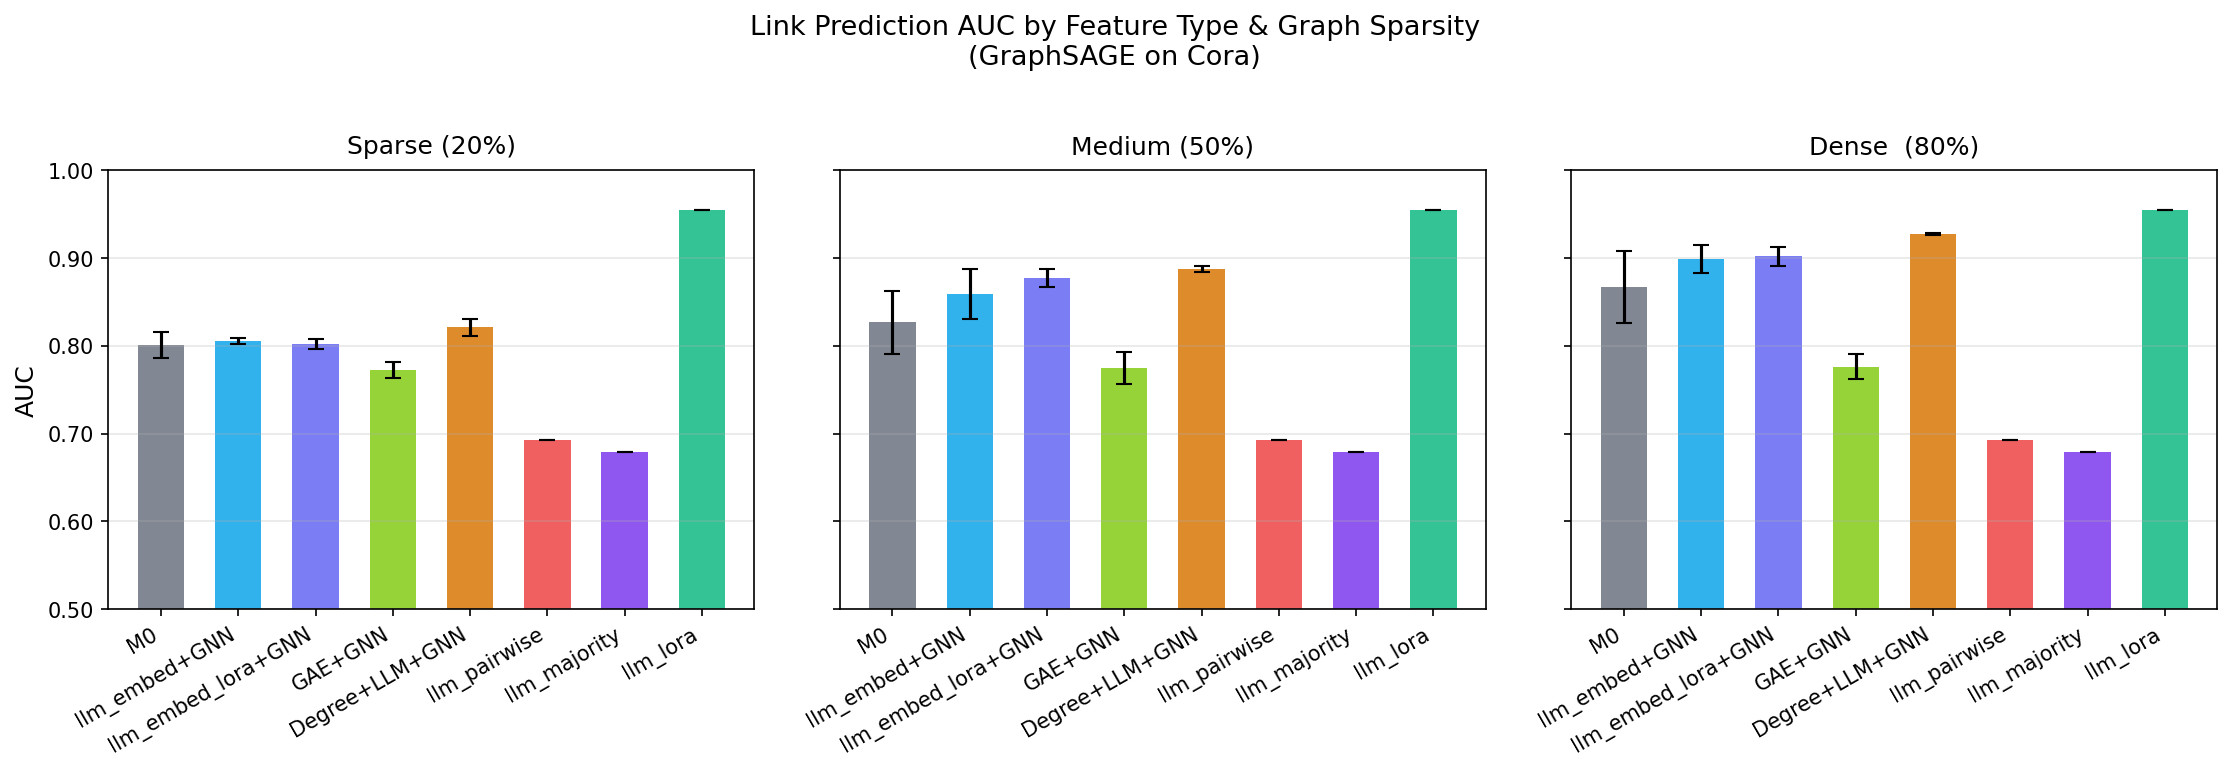
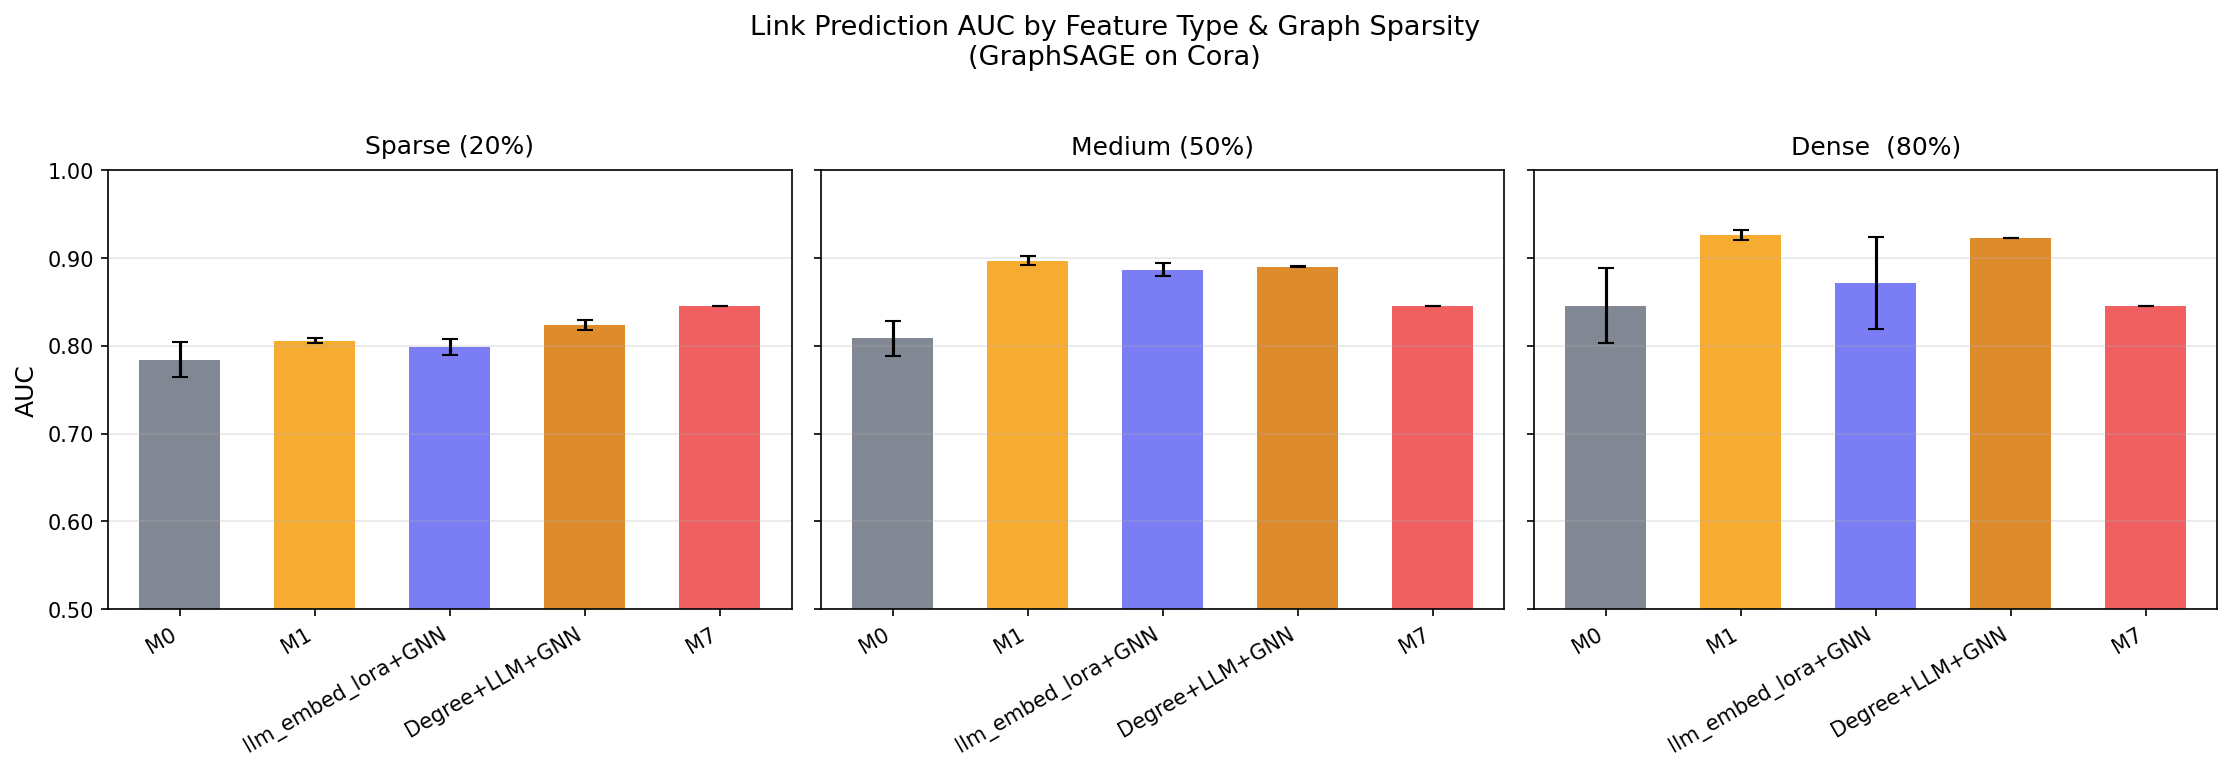
final comparsion

diff --git a/plot_sparsity.py b/plot_sparsity.py
@@ -1,0 +1,83 @@
+"""
+從 results/comparison_table.csv 讀取現有結果，畫出 sparsity.png。
+"""
+
+import numpy as np
+import matplotlib.pyplot as plt
+import matplotlib.ticker as mticker
+
+DATA = {
+    "M0: Degree Stats": {
+        "Sparse (20%)":  (0.7844, 0.0199),
+        "Medium (50%)":  (0.8088, 0.0201),
+        "Dense  (80%)":  (0.8456, 0.0428),
+    },
+    "M1: TF-IDF": {
+        "Sparse (20%)":  (0.8056, 0.0029),
+        "Medium (50%)":  (0.8972, 0.0049),
+        "Dense  (80%)":  (0.9263, 0.0061),
+    },
+    "M11: LLM-LoRA+GNN": {
+        "Sparse (20%)":  (0.7991, 0.0092),
+        "Medium (50%)":  (0.8870, 0.0077),
+        "Dense  (80%)":  (0.8721, 0.0523),
+    },
+    "Degree+LLM+GNN": {
+        "Sparse (20%)":  (0.8236, 0.0056),
+        "Medium (50%)":  (0.8905, 0.0005),
+        "Dense  (80%)":  (0.9231, 0.0004),
+    },
+    "M7: LLM Pairwise (70b)": {
+        "Sparse (20%)":  (0.8456, 0.0000),
+        "Medium (50%)":  (0.8456, 0.0000),
+        "Dense  (80%)":  (0.8456, 0.0000),
+    },
+}
+
+COLORS = {
+    "M0: Degree Stats":       "#6B7280",
+    "M1: TF-IDF":             "#F59E0B",
+    "M11: LLM-LoRA+GNN":      "#6366F1",
+    "Degree+LLM+GNN":         "#D97706",
+    "M7: LLM Pairwise (70b)": "#EF4444",
+}
+
+SPARSITY_LABELS = ["Sparse (20%)", "Medium (50%)", "Dense  (80%)"]
+METHODS = list(DATA.keys())
+
+n_sparse = len(SPARSITY_LABELS)
+n_method = len(METHODS)
+x        = np.arange(n_sparse)
+width    = 0.15
+offsets  = np.linspace(-(n_method - 1) / 2, (n_method - 1) / 2, n_method) * width
+
+fig, ax = plt.subplots(figsize=(10, 5))
+
+for i, method in enumerate(METHODS):
+    means = [DATA[method][sp][0] for sp in SPARSITY_LABELS]
+    stds  = [DATA[method][sp][1] for sp in SPARSITY_LABELS]
+    bars  = ax.bar(
+        x + offsets[i], means, width,
+        yerr=stds, capsize=4,
+        color=COLORS[method], alpha=0.88,
+        label=method,
+        error_kw={"elinewidth": 1.2, "ecolor": "#333"},
+    )
+
+ax.set_ylabel("AUC-ROC", fontsize=12)
+ax.set_title(
+    "Link Prediction AUC by Feature Type & Graph Sparsity\n(GraphSAGE on ogbn-arxiv subset)",
+    fontsize=13,
+)
+ax.set_xticks(x)
+ax.set_xticklabels(SPARSITY_LABELS, fontsize=11)
+ax.set_ylim(0.70, 1.00)
+ax.yaxis.set_major_formatter(mticker.FormatStrFormatter('%.2f'))
+ax.legend(fontsize=9, loc="lower right")
+ax.grid(axis="y", alpha=0.3)
+
+fig.tight_layout()
+path = "results/figures/sparsity.png"
+fig.savefig(path, dpi=150, bbox_inches="tight")
+plt.close(fig)
+print(f"圖表已存至 {path}")

diff --git a/eval/reporter.py b/eval/reporter.py
@@ -20,7 +20,7 @@ FEATURE_LABELS = {
     "llm_graph_embed":       "llm+GAE+GNN",
     "gae_embed":             "GAE+GNN",
     "degree_llm_embed":      "Degree+LLM+GNN",
-    "llm_pairwise":          "llm_pairwise",
+    "llm_pairwise":          "M7: LLM Pairwise (70b)",
     "llm_pairwise_majority": "llm_majority",
     "llm_lora":              "llm_lora",
 }
@@ -121,6 +121,7 @@ class Reporter:
         os.makedirs(out_dir, exist_ok=True)
         self._plot_bar_by_sparsity(out_dir)
         self._plot_llm_gain(out_dir)
+        self._plot_sparsity_line(out_dir)
 
     # ── 圖一：各稀疏度下的 AUC 比較 ──────────────────────────────────
     def _plot_bar_by_sparsity(self, out_dir):
@@ -162,7 +163,57 @@ class Reporter:
         plt.close(fig)
         print(f"[reporter] 圖表已存至 {path}")
 
-    # ── 圖二：LLM 特徵的邊際增益（vs TF-IDF baseline）────────────────
+    # ── 圖二：AUC vs Sparsity 線圖 ───────────────────────────────────
+    def _plot_sparsity_line(self, out_dir):
+        """各方法的 AUC 隨稀疏度變化的折線圖，M7 以虛線呈現（與稀疏度無關）。"""
+        sparsities = sorted(set(r['sparsity'] for r in self.records))
+        features   = list(dict.fromkeys(r['feature'] for r in self.records))
+
+        fig, ax = plt.subplots(figsize=(8, 5))
+
+        for feat in features:
+            aucs, stds, xs = [], [], []
+            for sp in sparsities:
+                rec = next((r for r in self.records
+                            if r['feature'] == feat and r['sparsity'] == sp), None)
+                if rec:
+                    aucs.append(rec['auc_mean'])
+                    stds.append(rec['auc_std'])
+                    xs.append(sp)
+            if not aucs:
+                continue
+            label  = FEATURE_LABELS.get(feat, feat)
+            color  = COLORS.get(feat, '#999')
+            is_m7  = feat == 'llm_pairwise'
+            ax.errorbar(
+                xs, aucs, yerr=stds,
+                marker='s' if is_m7 else 'o',
+                label=label, color=color,
+                linewidth=2, markersize=7, capsize=4,
+                linestyle='--' if is_m7 else '-',
+                alpha=0.9,
+            )
+
+        ax.set_xlabel("Training Edge Ratio (Graph Sparsity)", fontsize=12)
+        ax.set_ylabel("AUC-ROC", fontsize=12)
+        ax.set_title(
+            "Link Prediction AUC vs Graph Sparsity\n(GraphSAGE on ogbn-arxiv subset)",
+            fontsize=13,
+        )
+        ax.set_xticks(sparsities)
+        ax.set_xticklabels([SPARSITY_LABELS.get(s, str(s)) for s in sparsities])
+        ax.set_ylim(0.5, 1.0)
+        ax.yaxis.set_major_formatter(mticker.FormatStrFormatter('%.2f'))
+        ax.legend(fontsize=10, loc='lower right')
+        ax.grid(alpha=0.3)
+        fig.tight_layout()
+
+        path = os.path.join(out_dir, "sparsity.png")
+        fig.savefig(path, dpi=150, bbox_inches='tight')
+        plt.close(fig)
+        print(f"[reporter] 圖表已存至 {path}")
+
+    # ── 圖三：LLM 特徵的邊際增益（vs TF-IDF baseline）────────────────
     def _plot_llm_gain(self, out_dir):
         sparsities = sorted(set(r['sparsity'] for r in self.records))
         llm_feats  = ["e5_small"]

diff --git a/run_experiment.py b/run_experiment.py
@@ -43,20 +43,20 @@ RUNS        = 3
 SPARSITY_RATIOS = [0.2, 0.5, 0.8]
 
 FEATURE_CONFIGS = [
-    "degree",                # M0: 純圖統計（degree, clustering coeff）
-    # "tfidf",               # M1: TF-IDF 文字向量（baseline 文字特徵）
-    # "e5_small",            # M2: multilingual-e5-small（輕量 LLM）
-    # "llm_struct",          # M5: Groq 結構化語意特徵（16 維，品質不佳，停用）
-    # "llm_keywords",        # M6: Groq 關鍵詞 + TF-IDF（512 維，需 GROQ_API_KEY，已停用）
-    "llm_embed",             # M10: Llama 節點嵌入 → GraphSAGE（圖聚合）
-    "llm_embed_lora",        # M11: Llama + LoRA 節點嵌入 → GraphSAGE
-    # "llm_graph_embed",     # M12: LLM(PCA) + GAE → GraphSAGE（待 gae_embed 確認後啟用）
-    "gae_embed",             # M13: Graph Autoencoder 結構嵌入 → GraphSAGE（純圖，無文字）
-    "degree_llm_embed",      # M14: M0（degree tile×32）+ LLM(PCA 128) → GraphSAGE
-    "llm_pairwise",          # M7: LLM 邊級關係推理（greedy，temperature=0）
-    "llm_pairwise_majority", # M8: LLM 多數決（n_votes 次，取正票比例）
-    "llm_lora",              # M9: LoRA fine-tuned + 線性分類頭
+    "degree",           # M0: 純圖統計（degree, clustering coeff）
+    "tfidf",            # M1: TF-IDF 文字向量
+    "llm_embed_lora",   # M11: Llama + LoRA 節點嵌入 → GraphSAGE
+    "degree_llm_embed", # degree+LLM_embed: M0 + LLM(PCA 128) → GraphSAGE
+    # ── 已停用（本次不跑）──────────────────────────────────────────
+    # "llm_embed",             # M10
+    # "gae_embed",             # M13
+    # "llm_pairwise",          # M7: 由 llama-3.1-70b 結果直接注入，不重跑
+    # "llm_pairwise_majority", # M8
+    # "llm_lora",              # M9
 ]
+
+# M7: LLM Pairwise 由 llama-3.1-70b 預先計算，直接注入（不呼叫 API）
+_M7_HARDCODED = {"auc": 0.8456, "ap": 0.8351}
 
 # llm_pairwise 專用：每類（正/負）test 邊最多打分幾條，控制 API 成本
 MAX_EVAL_PAIRS  = 300
@@ -438,6 +438,10 @@ def main():
 
             if run_results:
                 reporter.add(feature_name, sparsity, run_results)
+
+    # 注入 M7 (llama-3.1-70b) 硬編碼結果（與稀疏度無關，各 sparsity 值相同）
+    for sparsity in SPARSITY_RATIOS:
+        reporter.add("llm_pairwise", sparsity, [_M7_HARDCODED])
 
     reporter.print_table()
     reporter.save_csv("results/comparison_table.csv")

diff --git a/run_experiment_inductive.py b/run_experiment_inductive.py
@@ -35,15 +35,18 @@ COLD_RATIOS  = [0.1, 0.2, 0.4]   # 掃描：冷節點（測試）佔比；訓練
 VAL_RATIO    = 0.1               # 驗證節點佔比（用於 early stopping）
 RESULT_DIR   = "results_inductive"
 
-# 走 GraphSAGE 的特徵（節點特徵 → GNN）
+# 走 GraphSAGE 的特徵（節點特徵 → GNN）— 與 transductive 對齊
 GNN_FEATURES = [
-    "degree",            # M0: 純圖統計 → 冷節點 degree=0，退化為零向量
-    "e5_small",          # M2: 輕量 LLM（與圖無關，冷節點有完整嵌入）
-    "llm_embed",         # M10: Llama-3.1-8B（與圖無關，冷節點有完整嵌入）
-    "degree_llm_embed",  # M14: M0 + LLM(PCA) → LLM 補償冷節點零 degree
+    "degree",           # M0: 純圖統計 → 冷節點 degree=0，退化為零向量
+    "tfidf",            # M1: TF-IDF 文字向量（與圖無關，冷節點有完整向量）
+    "llm_embed_lora",   # M11: Llama + LoRA（與圖無關，冷節點有完整嵌入）
+    "degree_llm_embed", # degree+LLM_embed: M0 + LLM(PCA) → LLM 補償冷節點零 degree
 ]
 # 邊級 LLM 推理（不經 GNN，與圖結構無關）
 PAIRWISE_FEATURE = "llm_pairwise"
+
+# M7: LLM Pairwise 由 llama-3.1-70b 預先計算，直接注入（不重跑 API）
+_M7_HARDCODED = {"auc": 0.8456, "ap": 0.8351}
 
 # llm_pairwise 在 cold test 邊上最多打分幾條（每類），控制 API 成本
 MAX_EVAL_PAIRS_COLD = 200
@@ -307,16 +310,10 @@ def main():
                     "ap_mean":  float(np.mean(aps)),  "ap_std":  float(np.std(aps)),
                 }
 
-    # llm_pairwise：與圖結構無關 → 只評估一次（用中間的冷節點比例取一組冷邊），畫成水平線
-    pairwise = None
-    try:
-        rep_ratio = COLD_RATIOS[len(COLD_RATIOS) // 2]
-        m = run_pairwise_inductive(data_full, texts, rep_ratio, run_id=0)
-        print(f"  [llm_pairwise] AUC={m['auc']:.4f}  AP={m['ap']:.4f}"
-              f"（單次評估，與冷節點比例無關）")
-        pairwise = m
-    except Exception as e:
-        print(f"  [llm_pairwise] FAILED: {e}")
+    # M7 llm_pairwise：直接使用 llama-3.1-70b 預先計算的結果，不呼叫 API
+    pairwise = _M7_HARDCODED
+    print(f"  [llm_pairwise] 注入硬編碼結果 AUC={pairwise['auc']:.4f}  AP={pairwise['ap']:.4f}"
+          f"（llama-3.1-70b，與圖無關）")
 
     save_and_plot(gnn_records, pairwise, RESULT_DIR)
 